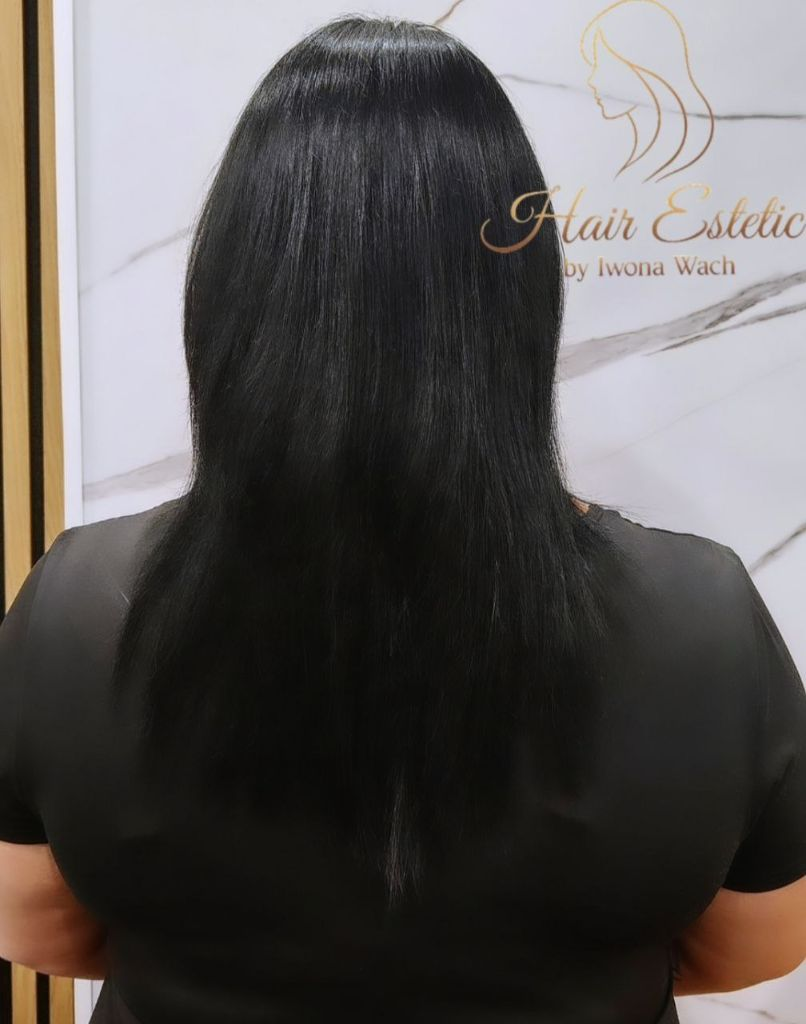
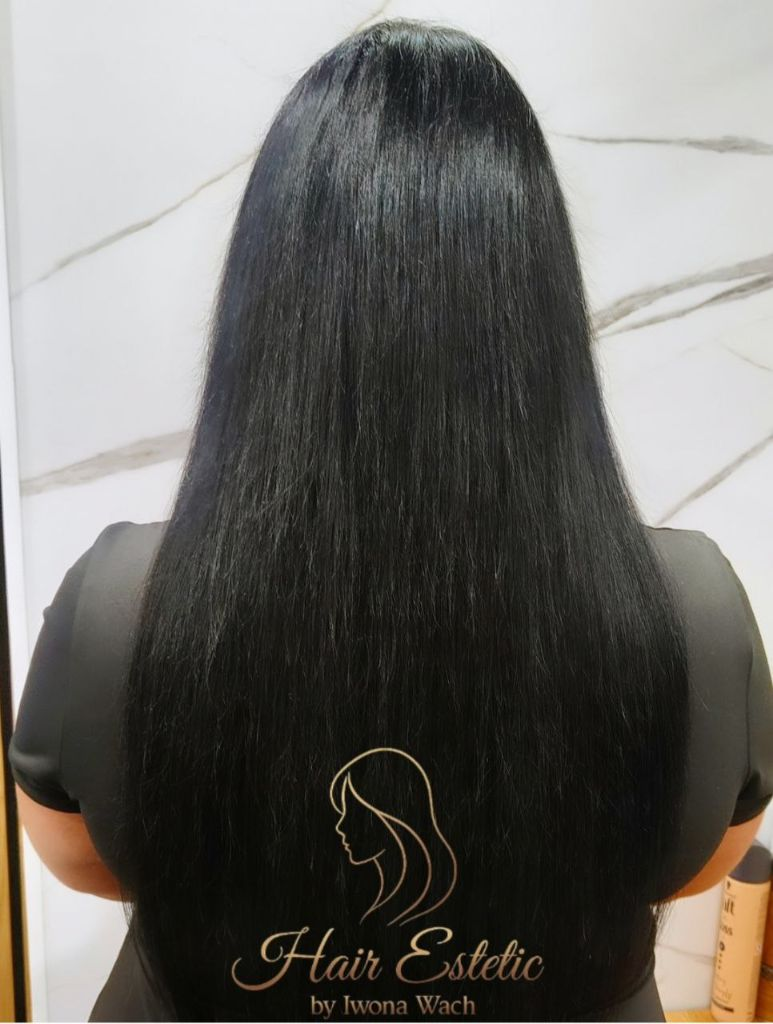
feat: Add 5th transformation pair and fix 4th pair
- Replace before-4/after-4 with correct photos (medium black to very long)
- Add before-5/after-5 (long brown to extra long blonde ombré)
- Update gallery.html with 5 transformations
- Update gallery-en.html with 5 transformations
- Change ITEMS_PER_PAGE to 5
- Gallery now displays all 5 real transformation photos

diff --git a/gallery.html b/gallery.html
@@ -865,11 +865,16 @@
             {
                 before: 'images/before-4.jpg',
                 after: 'images/after-4.jpg',
-                format: 'portrait' // Transformacja 4: Jasnobrązowe do czarnych
+                format: 'portrait' // Transformacja 4: Średnie czarne do bardzo długich
+            },
+            {
+                before: 'images/before-5.jpg',
+                after: 'images/after-5.jpg',
+                format: 'portrait' // Transformacja 5: Długie brąz do ekstra długich blond ombré
             }
         ];
 
-        const ITEMS_PER_PAGE = 4; // Wszystkie transformacje na jednej stronie
+        const ITEMS_PER_PAGE = 5; // Wszystkie transformacje na jednej stronie
         let currentPage = 1;
         
         // Pagination

diff --git a/gallery-en.html b/gallery-en.html
@@ -865,11 +865,16 @@
             {
                 before: 'images/before-4.jpg',
                 after: 'images/after-4.jpg',
-                format: 'portrait' // Transformation 4: Light brown to black
+                format: 'portrait' // Transformation 4: Medium black to very long
+            },
+            {
+                before: 'images/before-5.jpg',
+                after: 'images/after-5.jpg',
+                format: 'portrait' // Transformation 5: Long brown to extra long blonde ombré
             }
         ];
 
-        const ITEMS_PER_PAGE = 4; // All transformations on one page
+        const ITEMS_PER_PAGE = 5; // All transformations on one page
         let currentPage = 1;
         
         // Pagination
